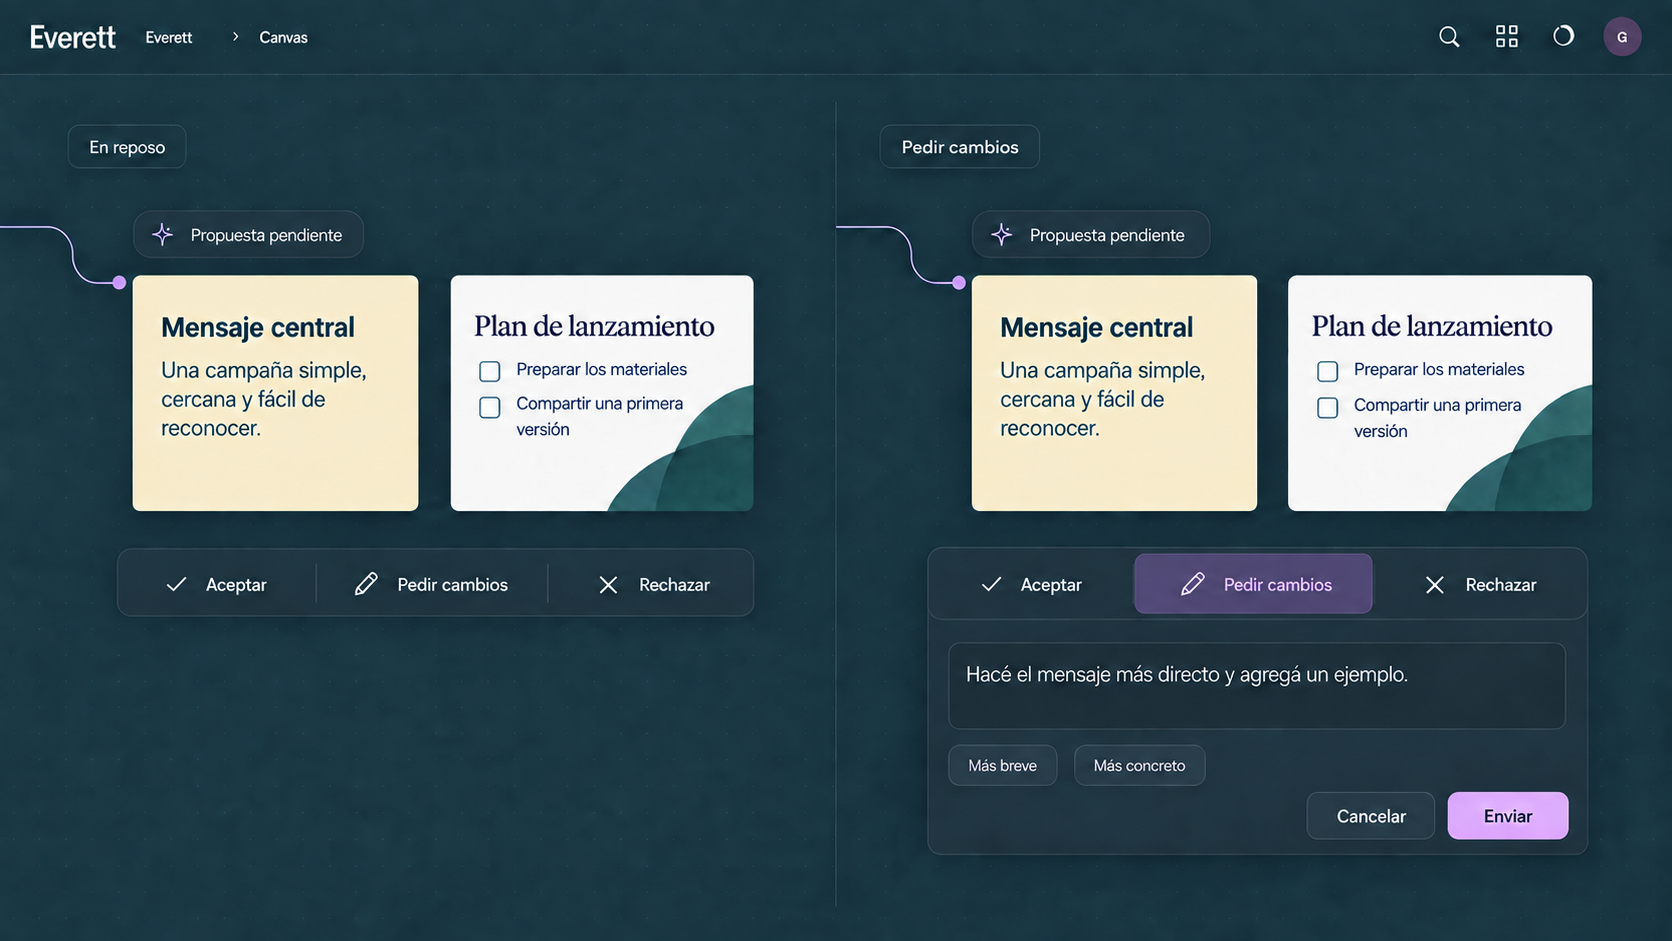
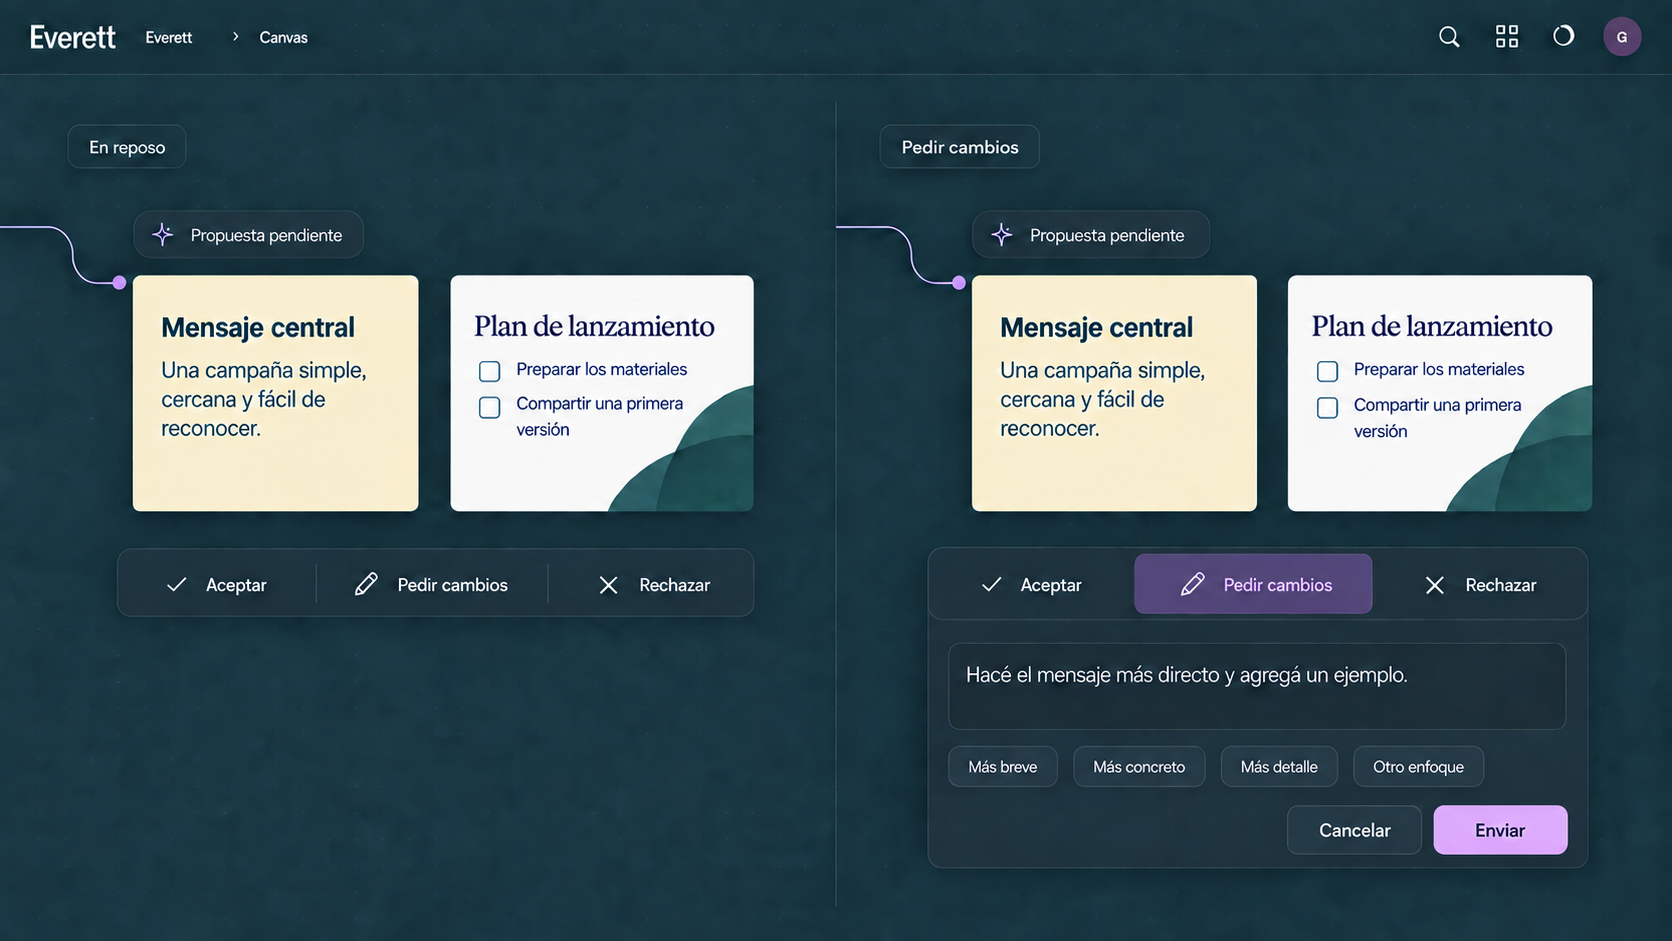
docs: completar cuatro sugerencias en la referencia de propuestas

diff --git a/docs/iteraciones/0.8.md b/docs/iteraciones/0.8.md
@@ -348,8 +348,9 @@ contenedor. El orden de izquierda a derecha es `Aceptar`, `Pedir cambios`, `Rech
 
 Al pulsar `Pedir cambios`, el mismo contenedor se expande hacia abajo y revela el campo de texto
 libre. El campo aparece junto a la propuesta, dentro de la barra expandida, con sugerencias
-rápidas y los controles `Enviar` y `Cancelar`. El usuario confirmó los chips de sugerencias,
-como `Más breve` y `Más concreto`.
+rápidas y los controles `Enviar` y `Cancelar`. Mostrar cuatro chips de sugerencias. La referencia
+utiliza `Más breve`, `Más concreto`, `Más detalle` y `Otro enfoque`; estos textos son ejemplos
+para la propuesta mostrada.
 
 El campo tiene tamaño compacto y controlado. Desactivar su redimensionado manual y no mostrar
 ningún tirador, ni en las imágenes de referencia ni en la interfaz implementada.
@@ -364,15 +365,16 @@ las convenciones de botones y campos compartidas de Everett.
 explícita antes de modificar el contenido compartido.
 
 El usuario dio conformidad a la dirección visual con estas correcciones. La imagen incorpora
-el orden central de `Pedir cambios`, el campo sin tirador y los botones inferiores alineados.
+el orden central de `Pedir cambios`, cuatro sugerencias rápidas, el campo sin tirador y los
+botones inferiores con las mismas dimensiones y alineación.
 La revisión de la experiencia continúa cuando se pueda usar la implementación.
 
 ![Barra de propuesta en reposo y expandida para pedir cambios](../referencias/0.8/propuestas-pedir-cambios.png)
 
 Comprobar el reposo compacto, la expansión hacia abajo al pedir cambios, la escritura sin
 activar atajos del Canvas y la cancelación sin rechazar ni aceptar la propuesta. Verificar
-expresamente la ausencia de redimensionado manual del campo y la igualdad de dimensiones y
-alineación de `Cancelar` y `Enviar` en la interfaz real, conservando su jerarquía visual.
+expresamente los cuatro chips, la ausencia de redimensionado manual del campo y la igualdad de
+dimensiones y alineación de `Cancelar` y `Enviar` en la interfaz real, conservando su jerarquía visual.
 
 ## Referencias visuales recuperadas
 

diff --git a/docs/alcance-prototipo.md b/docs/alcance-prototipo.md
@@ -115,7 +115,7 @@ Los previews tendrán tamaño máximo. Uno o dos materiales no deben estirarse p
 - Propuestas legibles y diferenciadas del contenido aceptado.
 - Aceptar, rechazar y pedir cambios mediante una barra compacta de acciones agrupadas. Al pulsar
   `Pedir cambios`, el mismo contenedor se expande hacia abajo y muestra el campo de texto libre
-  con sugerencias, `Enviar` y `Cancelar`, según C08-PROP-01 de [Canvas 0.8](iteraciones/0.8.md).
+  con cuatro sugerencias rápidas, `Enviar` y `Cancelar`, según C08-PROP-01 de [Canvas 0.8](iteraciones/0.8.md).
   Ordenar la barra como `Aceptar`, `Pedir cambios`, `Rechazar`. El campo no admite redimensionado
   manual ni muestra un tirador; `Cancelar` y `Enviar` comparten dimensiones y alineación,
   conservando su jerarquía secundaria y principal.

diff --git a/docs/referencias/0.8/infinity-canvas/indice.md b/docs/referencias/0.8/infinity-canvas/indice.md
@@ -62,8 +62,9 @@ se expande hacia abajo al pulsar `Pedir cambios`. El campo de texto permanece oc
 acción. La definición confirmada y sus comprobaciones están en C08-PROP-01 de
 [Canvas 0.8](../../../iteraciones/0.8.md).
 La [referencia creada para Everett](../propuestas-pedir-cambios.png) muestra ambos estados e
-incorpora las correcciones del usuario: `Pedir cambios` en el centro, campo sin tirador y
-botones inferiores alineados. Esta imagen complementa los antecedentes de Infinity Canvas.
+incorpora las correcciones del usuario: `Pedir cambios` en el centro, cuatro chips de sugerencias,
+campo sin tirador y botones inferiores con las mismas dimensiones y alineación. Esta imagen
+complementa los antecedentes de Infinity Canvas.
 
 ## Aplicación al alcance vigente
 
